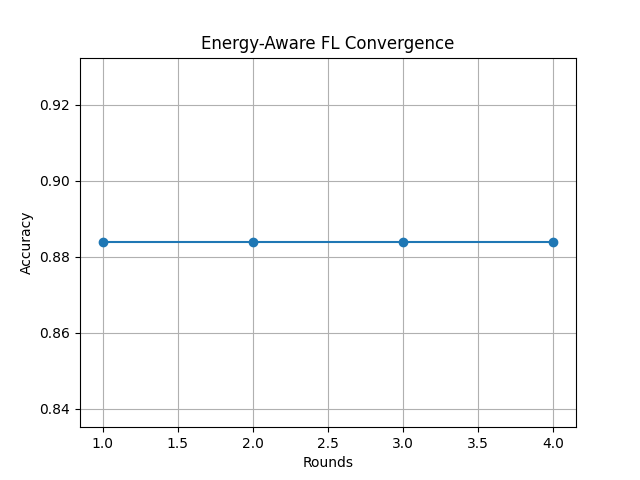
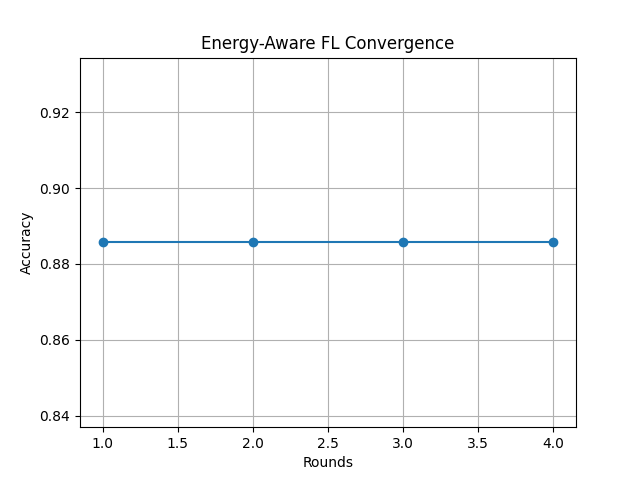
energu improvement

diff --git a/src/server.py b/src/server.py
@@ -24,35 +24,62 @@ import numpy as np
 #     weights = weights / np.sum(weights)
 
 #     return weights
+import numpy as np
+
 def compute_hada_weights(shap_scores, epsilons, energies, tau=1.0, beta=1e-5):
 
     shap_scores = np.array(shap_scores)
     epsilons = np.array(epsilons)
     energies = np.array(energies)
 
-    # normalize SHAP
+    # ==============================
+    # NORMALIZE SHAP
+    # ==============================
     shap_scores = (shap_scores - np.min(shap_scores)) / (
         np.max(shap_scores) - np.min(shap_scores) + 1e-8
     )
 
-    # normalize ENERGY
+    # ==============================
+    # NORMALIZE ENERGY
+    # ==============================
     energies = (energies - np.min(energies)) / (
         np.max(energies) - np.min(energies) + 1e-8
     )
 
-    # weights = energies ** 4
-    # weights += 0.1 * shap_scores
-    # weights = np.exp( weights)
-    # weights = weights / np.sum(weights)
+    # ==============================
+    # 🔥 FIX: SOFT ENERGY INFLUENCE
+    # ==============================
+    # convert energy to "efficiency"
+    energy_eff = 1 / (energies + 1e-6)
 
-    # 🔥 COMBINE SHAP + ENERGY
-    weights = (shap_scores * 0.3 + energies * 0.7) / (epsilons + beta)
-    weights=weights ** 2
+    # normalize again
+    energy_eff = (energy_eff - np.min(energy_eff)) / (
+        np.max(energy_eff) - np.min(energy_eff) + 1e-8
+    )
+
+    # ==============================
+    # 🔥 BETTER COMBINATION
+    # ==============================
+    # SHAP dominates, energy assists
+    weights = (0.7 * shap_scores + 0.3 * energy_eff)
+
+    # ==============================
+    # PRIVACY ADJUSTMENT
+    # ==============================
+    weights = weights / (epsilons + beta)
+
+    # ==============================
+    # STABILIZATION (SOFTEN SHARPNESS)
+    # ==============================
+    weights = np.power(weights, 1.5)
+
+    # ==============================
+    # SOFTMAX NORMALIZATION
+    # ==============================
     weights = np.exp(tau * weights)
     weights = weights / np.sum(weights)
 
     return weights
-
 
 # ==============================
 # HADA AGGREGATION

diff --git a/src/federated.py b/src/federated.py
@@ -54,7 +54,7 @@ def federated_training(clients, rounds=5, epsilon=1.0, X_test=None, y_test=None)
         # ==============================
         # 🔥 CLIENT SELECTION (NEW)
         # ==============================
-        selected_clients = select_top_clients(clients, fraction=0.7)
+        selected_clients = select_top_clients(clients, fraction=0.8)
 
         print(f"👥 Selected {len(selected_clients)}/{len(clients)} clients")
 
